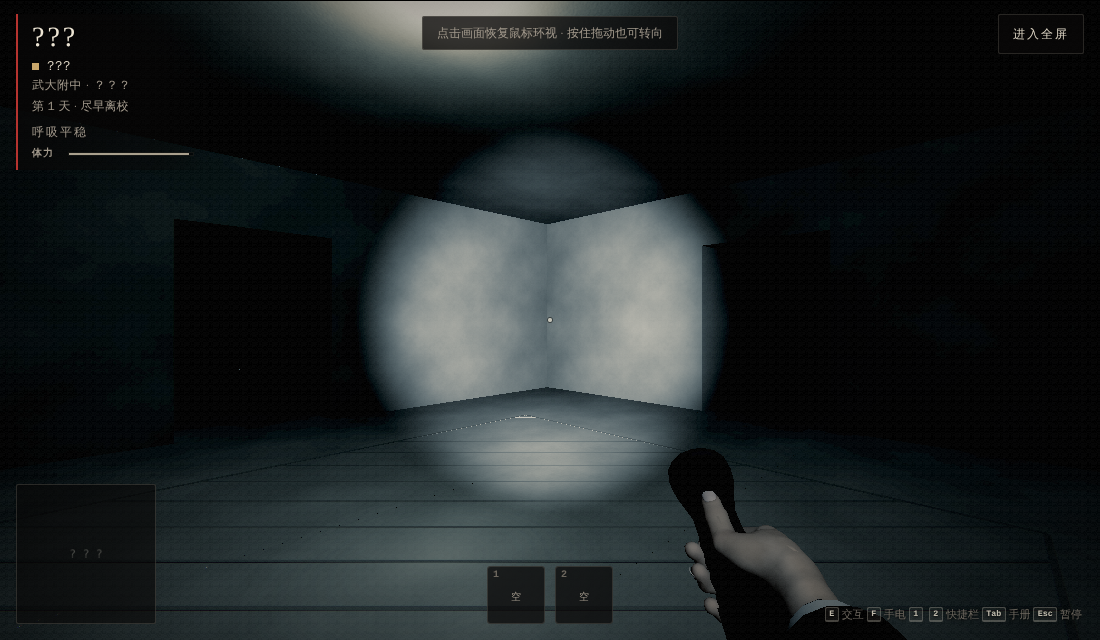
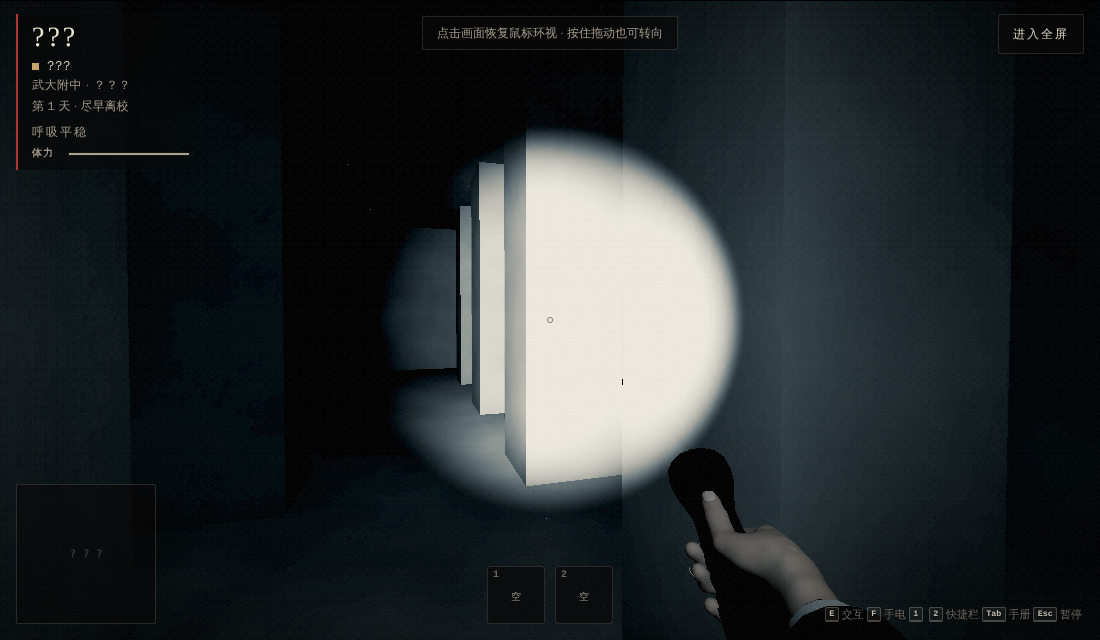
隐藏彩蛋天赋「武大子弟」：开局自带手电筒，和正常天赋叠加；柱林截图重拍
- 新模块 modules/wuda-kid/（内部内容，不进玩家 Wiki，可从清单拿掉）：主菜单连点三下校名切换（本机），
  新开局时静默放一支手电进背包和快捷栏 1；不进 TALENT_DEF / 随机池 / 暂停说明，不占 S.talent；
  读档按存档（d.mods），速通局不给；
- app/session.js 在 Game.start 的 freshState 之后发 newGame 钩子（只在新开局，读档不发）；
- 测试 test_wuda_kid（4 项）；test_wiki_secrets 加保密词；test_modules 拿掉模块的用例加上 wuda-kid；
- 天赋计划第 13 节、模块化与 Mod 规范的钩子表、更新说明与产品对齐同步；
- 柱林入口截图换成沿柱间空当的机位，补一张柱子上前人刻的「正」字；迷宫（含新结构）穿模检查 0 条。

Claude-Session: https://claude.ai/code/session_01MYQzreqxohbYPjiGjbT8Md

diff --git a/game3d/js/modules/wuda-kid/wuda-kid.js b/game3d/js/modules/wuda-kid/wuda-kid.js
@@ -1,0 +1,69 @@
+/* 里世界 3D · 隐藏彩蛋天赋「武大子弟」（模块 wuda-kid）——内部内容，不进玩家 Wiki
+   效果：开局自带一支手电筒（放进背包和快捷栏 1）。
+   隐藏：不在天赋选择、随机池和暂停里的天赋说明中出现；不占 S.talent，和本局抽到 / 选的天赋同时生效（叠加）。
+   开关在这台设备上：主菜单连点三下校名「武汉大学附属中学」打开，再连点三下关上（确定性触发，不随机），
+   记在本机存储 wdfz_wuda。只在新开局时生效（newGame 钩子）：读档按存档里记的，速通局不给（成绩要公平）。
+   本局是否生效随存档保存在 d.mods['wuda-kid']。 */
+'use strict';
+
+var WUDA_KID_CFG={key:'wdfz_wuda', clicks:3, windowMs:1600, item:'torch', tellAfter:6,
+  line:'我：书包侧袋里有一支手电。……小时候在珞珈山上跑，天一黑就得带着它。',
+  onText:'……你想起来了：你家就住在珞珈山下。', offText:'……还是当个普通的转学生吧。'};
+
+var WudaKid=(function(){
+  var C=WUDA_KID_CFG, st={on:false,told:false,t:0}, taps=[];
+  var store=StorageAdapter.create(function(){ return localStorage; });
+  function armed(){ var r=store.read(C.key); return !!(r.ok&&r.value==='1'); }
+  function setArmed(v){ if(v) store.write(C.key,'1'); else store.remove(C.key); }
+  /* 静默放进背包：开场演出里不弹「拿到了」 */
+  function grant(){
+    if(InventoryRules.add(S,C.item,true)!=='added') return false;
+    if(S.hot[0]===null) InventoryRules.setHot(S,0,C.item);
+    try{ bagChanged(); }catch(e){}
+    return true;
+  }
+  function tap(el,now){
+    now=now===undefined?Date.now():now;
+    taps=taps.filter(function(t){ return now-t<C.windowMs; }); taps.push(now);
+    if(taps.length<C.clicks) return null;
+    taps=[];
+    var on=!armed(); setArmed(on);
+    if(el){ el.classList.toggle('wuda-on',on); el.classList.remove('wuda-flash'); void el.offsetWidth; el.classList.add('wuda-flash'); }   /* 闪一下（CSS 动画，不开定时器） */
+    try{ SFX.resume(); SFX.blink(); }catch(e){}
+    try{ toast(on?C.onText:C.offText); }catch(e){}
+    return on;
+  }
+  return {
+    active:function(){ return st.on; }, armed:armed, tap:tap, grant:grant, state:st,
+    newGame:function(o){
+      if(o&&o.mode==='speedrun') return false;
+      if(!armed()) return false;
+      st.on=true; st.told=false; st.t=0; grant(); return true;
+    },
+    tick:function(dt){
+      if(!st.on||st.told||!(dt>0)) return;
+      st.t+=dt; if(st.t<C.tellAfter) return;
+      st.told=true; try{ os(C.line,4.2); }catch(e){}
+    },
+    reset:function(){ st.on=false; st.told=false; st.t=0; },
+    load:function(d){ st.on=!!(d&&d.on); st.told=!!(d&&d.told); st.t=st.told?C.tellAfter:0; }
+  };
+})();
+(function(){
+  var own={owner:'wuda-kid'};
+  GameModules.persistent('wuda-kid',{
+    save:function(){ return WudaKid.state.on?{on:true,told:WudaKid.state.told}:undefined; },
+    load:WudaKid.load, reset:WudaKid.reset});
+  GameModules.on('newGame',WudaKid.newGame,own);
+  GameModules.on('tick',WudaKid.tick,own);
+  GameModules.on('boot',function(){
+    var el=document.querySelector('#menu .mschool'); if(!el) return;
+    var css=document.createElement('style');
+    css.textContent='#menu .mschool{transition:color .5s}#menu .mschool.wuda-on{color:#cdbb86}'+
+      '@keyframes wudaFlash{0%{color:#f1dfa4;text-shadow:0 0 10px rgba(241,223,164,.55)}100%{text-shadow:none}}'+
+      '#menu .mschool.wuda-flash{animation:wudaFlash 1.4s ease-out}';
+    document.head.appendChild(css);
+    el.classList.toggle('wuda-on',WudaKid.armed());
+    el.addEventListener('click',function(){ WudaKid.tap(el); });
+  },own);
+})();

diff --git a/game3d/manifest.js b/game3d/manifest.js
@@ -105,8 +105,10 @@
     files:['game3d/js/modules/mod-manager/mod-manager.js'], exports:['ModManager'], uses:['boot','devTab']},
   {id:'sound-board', name:'声音试听', desc:'调试面板「工具」页的「声音试听」：按类别挑声音库里的音效试听、整类连放，显示响度校准值。',
     files:['game3d/js/modules/sound-board/sound-board.js'], exports:['SoundBoard'], uses:['boot']},
+  {id:'wuda-kid', name:'隐藏天赋「武大子弟」（内部）', desc:'彩蛋天赋：开局自带手电筒，和正常天赋叠加，不在天赋选择和说明里出现；主菜单连点三下校名切换（本机）。不进玩家 Wiki，可从清单拿掉。',
+    files:['game3d/js/modules/wuda-kid/wuda-kid.js'], exports:['WudaKid','WUDA_KID_CFG'], uses:['newGame','tick','boot']},
   {id:'session', name:'会话', desc:'新局、继续、暂停、恢复、回菜单；Lifecycle.boundary 清掉上一局的定时器和回调。freshState 末尾调 GameModules.resetAll（发 reset）。',
-    files:['game3d/js/app/session.js'], exports:['Game','freshState','clearIntroTimers'], emits:['boundary']},
+    files:['game3d/js/app/session.js'], exports:['Game','freshState','clearIntroTimers'], emits:['boundary','newGame']},
   {id:'main', name:'主循环与启动', desc:'主循环、HUD、启动（boot 末尾发 boot 钩子；每个模拟步发 tick）。必须最后加载。',
     files:['game3d/js/main.js'], exports:['boot','update'], emits:['boot','tick','frame','enterRoom','clockText','mapBlocked']}
 ].forEach(function(m){ GameModules.define(m); });

diff --git a/game3d/js/app/session.js b/game3d/js/app/session.js
@@ -68,6 +68,7 @@ var Game={
     if(opt&&opt.mode==='speedrun'){ if(!Speedrun.active()) Speedrun.arm(diff); Dev.clearModifiers(); }   /* 普通局留下的快跑 / 无敌 / 关读条不带进速通 */
     else Speedrun.disarm();                                    /* 普通新局：回到普通存档槽 */
     freshState(diff);
+    GameModules.emit('newGame',{diff:diff,mode:opt&&opt.mode==='speedrun'?'speedrun':'normal'});   /* 模块：只在新开局（不含读档）时做的事 */
     Playtest.event('开始新局',diff);
     var R1=INTERIORS['teach1'];
     /* 淡入要等一会儿：这段时间里人还算站在北门，会被当成"去过北门"。先把人放到座位上。 */

diff --git a/tests/test_wuda_kid.py b/tests/test_wuda_kid.py
@@ -1,0 +1,104 @@
+"""隐藏彩蛋天赋「武大子弟」（内部内容，不进玩家 Wiki）：主菜单连点三下校名切换；新开局自带手电、和正常天赋叠加；
+不出现在天赋选择、随机池和暂停说明里；读档按存档、速通不给；从清单拿掉后游戏照常。"""
+from pathlib import Path
+
+from browser_case import BrowserCase
+
+ROOT = Path(__file__).resolve().parents[1]
+START = """(o)=>{Game.start('hard',o);}"""
+READY = "S.room==='teach1'&&GLR.roomMesh"
+QUIET = "running=false;clearIntroTimers();S.intro=0;AN.active=false;AN.next=1e5;PAT.next=1e5;RT.inspection=null;"
+
+
+class WudaKidTest(BrowserCase):
+    def start(self, page, **opt):
+        page.evaluate(START, opt)
+        page.wait_for_function(READY)
+        page.evaluate(QUIET)
+
+    def test_menu_school_name_toggles_it_with_three_quick_clicks(self):
+        page = self.page()
+        page.evaluate("document.getElementById('menu').style.display='block';S.screen='menu';localStorage.removeItem('wdfz_wuda')")
+        name = page.locator('#menu .mschool')
+        name.click()
+        name.click()
+        self.assertFalse(page.evaluate('WudaKid.armed()'))              # 两下不算
+        name.click()
+        r = page.evaluate("""()=>({armed:WudaKid.armed(),stored:localStorage.getItem('wdfz_wuda'),
+          on:document.querySelector('#menu .mschool').classList.contains('wuda-on'),toast:document.getElementById('toast').textContent})""")
+        self.assertEqual(r['armed'], True)
+        self.assertEqual(r['stored'], '1')
+        self.assertTrue(r['on'])
+        self.assertIn('珞珈山', r['toast'])
+        for _ in range(3):
+            name.click()
+        self.assertFalse(page.evaluate('WudaKid.armed()'))
+        self.assertIsNone(page.evaluate("localStorage.getItem('wdfz_wuda')"))
+        # 慢慢点（超过 1.6 秒）不算
+        r = page.evaluate("""()=>{const el=document.querySelector('#menu .mschool');
+          return [WudaKid.tap(el,1000),WudaKid.tap(el,2000),WudaKid.tap(el,3700),WudaKid.armed()];}""")
+        self.assertEqual(r, [None, None, None, False])
+
+    def test_new_game_brings_a_torch_and_stacks_with_the_chosen_talent(self):
+        page = self.page()
+        page.evaluate("localStorage.setItem('wdfz_wuda','1')")
+        self.start(page, talent='night', origin='selected')
+        r = page.evaluate("""()=>{const pick=(TalentPick.open('hard'),Array.from(document.querySelectorAll('#tpcards .tpcard')).map(b=>b.textContent).join('|'));
+          TalentPick.close();
+          return {talent:S.talent,bag:S.bag.slice(),hot:S.hot.slice(),active:WudaKid.active(),pause:Talent.pauseText(),
+            pick,keys:TAL_KEYS.slice(),def:typeof TALENT_DEF.wuda};}""")
+        self.assertEqual(r['talent'], 'night')                           # 正常天赋照旧
+        self.assertEqual(r['bag'], ['torch'])                            # 叠加：开局自带手电
+        self.assertEqual(r['hot'][0], 'torch')
+        self.assertTrue(r['active'])
+        for text in (r['pause'], r['pick'], ' '.join(r['keys'])):          # 隐藏：选择、随机池、暂停说明里都没有
+            self.assertNotIn('武大', text)
+        self.assertEqual(r['def'], 'undefined')
+        # 走几秒后自言自语一句，只说一次
+        r = page.evaluate("""()=>{const said=[];const o=window.os;window.os=function(t){said.push(t);return o.apply(this,arguments);};
+          for(let i=0;i<60*9;i++)update(1/60);window.os=o;return said.filter(t=>t.indexOf('手电')>=0);}""")
+        self.assertEqual(len(r), 1)
+        self.assertIn('珞珈山', r[0])
+
+    def test_off_by_default_never_in_speedrun_and_saves_follow_the_run(self):
+        page = self.page()
+        page.evaluate("localStorage.removeItem('wdfz_wuda')")
+        self.start(page, talent='watch', origin='selected')
+        self.assertEqual(page.evaluate('[S.bag.slice(),WudaKid.active()]'), [[], False])
+        # 速通局：开着也不给
+        page.evaluate("localStorage.setItem('wdfz_wuda','1')")
+        self.start(page, talent='watch', origin='selected', mode='speedrun')
+        self.assertEqual(page.evaluate('[S.bag.indexOf("torch"),WudaKid.active()]'), [-1, False])
+        page.evaluate("Speedrun.disarm();RUN_MODE='normal'")
+        # 读档按存档：开着开的局存档 → 关掉开关 → 继续上次，仍然生效；手电来自存档
+        self.start(page, talent='watch', origin='selected')
+        r = page.evaluate("""()=>{saveGame();const d=loadGame();localStorage.removeItem('wdfz_wuda');
+          Game.continue_();return {saved:d.mods['wuda-kid'],active:WudaKid.active(),torch:S.bag.filter(i=>i==='torch').length};}""")
+        self.assertEqual(r['saved']['on'], True)
+        self.assertEqual((r['active'], r['torch']), (True, 1))
+        # 没开时开的局：之后再打开开关、读档，也不会凭空多一支手电
+        self.start(page, talent='watch', origin='selected')
+        r = page.evaluate("""()=>{saveGame();localStorage.setItem('wdfz_wuda','1');Game.continue_();
+          return {active:WudaKid.active(),bag:S.bag.slice(),saved:(loadGame().mods||{})['wuda-kid']};}""")
+        self.assertEqual(r, {'active': False, 'bag': [], 'saved': None})
+
+    def test_module_can_be_removed_and_wiki_keeps_the_secret(self):
+        context = self.browser.new_context(viewport={'width': 1000, 'height': 700})
+        self.contexts.append(context)
+        context.add_init_script("localStorage.setItem('wdfz_pro','1');localStorage.setItem('zw3d_set',JSON.stringify({q:0,amb:0,vol:0}));localStorage.setItem('wdfz_wuda','1');")
+        src = (ROOT / 'game3d/manifest.js').read_text(encoding='utf-8')
+        src = src.replace("].forEach(function(m){ GameModules.define(m); });",
+                          "].filter(function(m){ return m.id!=='wuda-kid'; }).forEach(function(m){ GameModules.define(m); });")
+        context.route('**/game3d/manifest.js', lambda route: route.fulfill(status=200, content_type='text/javascript', body=src))
+        page = context.new_page()
+        page.on('pageerror', lambda e: self.errors.append(str(e)))
+        page.goto(self.url, wait_until='load')
+        page.evaluate("PHOTO_TRIED=true;running=false;CUT.enabled=false;Game.start('hard',{talent:'night',origin:'selected'})")
+        page.wait_for_function("S.room==='teach1'")
+        r = page.evaluate("({kid:typeof WudaKid,bag:S.bag.slice(),errors:GameModules.errors().length})")
+        self.assertEqual(r, {'kid': 'undefined', 'bag': [], 'errors': 0})
+        for path in (ROOT / 'wiki').rglob('*'):
+            if path.is_file() and path.suffix in ('.html', '.css', '.js', '.json', '.md', '.txt'):
+                text = path.read_text(encoding='utf-8')
+                for word in ('武大子弟', '珞珈', 'wuda', 'wdfz_wuda'):
+                    self.assertNotIn(word, text, path.name)

diff --git a/tests/test_modules.py b/tests/test_modules.py
@@ -163,13 +163,13 @@ class ModuleBrowserTest(BrowserCase):
         self.assertTrue(result['chalk'])
 
     def test_feature_modules_can_be_removed_from_the_manifest(self):
-        """从清单里拿掉虚空迷宫（连同它的彩蛋）、粉笔记号、Mod 管理四个功能模块，游戏照常启动；电梯退回原来的白色空间。"""
+        """从清单里拿掉虚空迷宫（连同它的彩蛋）、粉笔记号、Mod 管理、隐藏天赋五个功能模块，游戏照常启动；电梯退回原来的白色空间。"""
         context = self.browser.new_context(viewport={'width': 1000, 'height': 700})
         self.contexts.append(context)
         context.add_init_script("localStorage.setItem('wdfz_pro','1');localStorage.setItem('zw3d_set',JSON.stringify({q:0,amb:0,vol:0}));")
         src = (ROOT / 'game3d/manifest.js').read_text(encoding='utf-8')
         src = src.replace("].forEach(function(m){ GameModules.define(m); });",
-                          "].filter(function(m){ return ['void-maze','void-maze-eggs','chalk-marks','mod-manager'].indexOf(m.id)<0; }).forEach(function(m){ GameModules.define(m); });")
+                          "].filter(function(m){ return ['void-maze','void-maze-eggs','chalk-marks','mod-manager','wuda-kid'].indexOf(m.id)<0; }).forEach(function(m){ GameModules.define(m); });")
         context.route('**/game3d/manifest.js', lambda route: route.fulfill(status=200, content_type='text/javascript', body=src))
         page = context.new_page()
         page.on('pageerror', lambda e: self.errors.append(str(e)))
@@ -184,7 +184,7 @@ class ModuleBrowserTest(BrowserCase):
           S.bag.push('chalk');useItem('chalk');
           return {n,bad,maze:typeof VoidMaze,chalk:typeof ChalkMarks,inside,old,back:S.room,panel:!!document.getElementById('modTools'),
             sub:document.getElementById('sub').innerText}}""")
-        self.assertEqual(result['n'], len(manifest()) - 4)          # 清单里的模块数减去拿掉的四个
+        self.assertEqual(result['n'], len(manifest()) - 5)          # 清单里的模块数减去拿掉的五个
         self.assertEqual(result['bad'], 0)
         self.assertEqual((result['maze'], result['chalk']), ('undefined', 'undefined'))
         self.assertEqual(result['inside'], 'lift_dream')

diff --git a/tests/test_wiki_secrets.py b/tests/test_wiki_secrets.py
@@ -8,7 +8,8 @@ import unittest
 WIKI = Path(__file__).resolve().parents[1] / 'wiki'
 # 隐藏路线的名字、内部 ID、时刻和专属线索
 HIDDEN = ['先辈', 'beast', '旧校服', '第三个隔间', '秒针', '慢速窗口',
-          '可乐', 'cola', '易拉罐']   # 清华水杯之后的夜间连锁异象：按内部潜在彩蛋处理
+          '可乐', 'cola', '易拉罐',   # 清华水杯之后的夜间连锁异象：按内部潜在彩蛋处理
+          '武大子弟', '珞珈', 'wuda']   # 隐藏彩蛋天赋（PR #27）
 TIME = re.compile(r'11\s*[:：点]\s*45')
 
 

diff --git a/docs/plan/README.md b/docs/plan/README.md
@@ -6,7 +6,7 @@
 | --- | --- | --- |
 | [项目解耦与模块化](项目解耦与模块化.md) | 代码已实施，待真人／真机验收 | 按最新指示直接在 main 实施，代码 `37658d8`：统一输入／会话生命周期，抽出数值、时间、背包和存档规则，隔离镜头与结局舞台，加入模块边界检查。当前 397 项按完整回归及专项复测去重核对：396 通过、1 环境跳过；汽车路线实际操作通关。普通脚本、旧接口、原随机源和同学场景查询作为兼容边界保留；真人／真机与真实 GPU 对照未验收，记录见正文第 10 节及测试说明。PR #25 合入本次模块化时，天赋规则 2、开场 CG、速通、死亡档案与特殊日按同一接口接入（见[模块边界与迁移](../模块边界与迁移.md)第 7 节），A-01 开场空格跳过随新输入策略修复。 |
 | [传送门建模、死亡CG档案室与速通模式](传送门建模、死亡CG档案室与速通模式.md) | 部分完成 | 第 6.7 节 20 分钟自然日此前已部署。2026-11-01 实现 P0 传送门实体模型（实验室常驻装置与结局演出共用）、P1 死亡档案室（18 种死因、可信解锁、隔离回放）、P2 速通模式（RTA、独立存档槽、个人最佳）、P3 新局 3D 开场 CG、P4 水杯前摇缩短 / 夜间连锁异象 / 校庆与占课，均有自动化与截图（第 9 节）；电梯异常维度的「异色空间」重绘及人影已按要求从 PR #25 撤回；2026-11-02 按用户手稿重新设计为虚空迷宫（6.4 节，另立计划「虚空迷宫、粉笔记号与模块化」，PR #26）；2026-11-02 已合入 main 的模块化重构，按新接口接入，开场 CG 键盘空格跳过的输入分流问题随之修复；真人试玩、安卓真机、听感与真实 GPU 性能验收未做。 |
-| [天赋系统重构](天赋系统重构.md) | 部分完成 | 2026-11-01 完成 M0–M3：`talents.js` 统一定义与能力接口、新局选择 / 随机 / 返回、免疫立即落盘、未知 ID 校验、手册与暂停反馈、规则 2 试验效果（旧存档保持规则 1），`tests/test_talents.py` 9 项；M4 路线自然通关与 M5 真人 / 真机验收未做（第 12 节）。 |
+| [天赋系统重构](天赋系统重构.md) | 部分完成 | 2026-11-01 完成 M0–M3：`talents.js` 统一定义与能力接口、新局选择 / 随机 / 返回、免疫立即落盘、未知 ID 校验、手册与暂停反馈、规则 2 试验效果（旧存档保持规则 1），`tests/test_talents.py` 9 项；M4 路线自然通关与 M5 真人 / 真机验收未做（第 12 节）。；2026-11-02 PR #27 加一项隐藏彩蛋天赋（内部，见第 13 节，不进 Wiki）。 |
 | [可玩性与整体体验提升](可玩性与整体体验提升.md) | 代码已实现，待真人／真机验收 | [PR #20](https://github.com/chorusfruit-233/wdfz/pull/20) 集中交付 G1–G9 的实现、回归与记录工具：首局调查、具体笔记与路线选择、图纸挑战、补给取舍、失败归因、楼层草图、操作设置及叙事回应。第二轮（17.6 节）做了审查修复、全部新界面与场景文字牌按游戏界面风格重做、Alt 放出鼠标。真人盲玩、正常收集通关、自然跨日、实体设备、听感和重玩价值保持待验收，证据见正文第 17 节。 |
 | [恐怖体验深化与验证](恐怖体验深化与验证.md) | 部分完成 | P0–P2 与第 6 节自动化已完成：威胁矩阵与事件优先级表、巡察者卡住放弃 / 跟丢回头找 / 记得躲过的柜子、声音先行与有方位的假威胁、惊吓预算、骤静与前兆、回访变化、五分钟切片，导演系统评估后暂不做；安卓真机与真人试玩记录未做。2026-11-02 异色空间人影改动已从 PR #25 撤回，随异常维度一起重新设计。 |
 | [校园事件、电梯与逃脱流程重做](校园事件、电梯与逃脱流程重做.md) | 部分完成 | M0–M6 完成：第 15 节列出「待设计」参数的实施取值（未经用户逐项确认，集中在配置里可调）和对应测试；M7 的真实设备与真人试玩（数值平衡、驾驶手感、白色空间可玩性）未做。 |

diff --git a/docs/模块化与Mod规范.md b/docs/模块化与Mod规范.md
@@ -31,7 +31,7 @@ game3d/mods/                    随游戏发布、默认关闭的 Mod；index.js
 | `emits` | 这个模块在代码里发出的钩子（`GameModules.emit/first`） |
 | `uses` | 这个模块监听的钩子 |
 
-当前 42 个模块：原有代码分成的模块，main 模块化新增的「生命周期与输入策略」「纯规则」「会话」，功能模块「粉笔记号」「虚空迷宫」「虚空迷宫彩蛋（内部）」「Mod 管理」，以及最后加载的主循环。具体职责以清单为准。`tools/check_modules.py` 从清单展开实际加载顺序，检查每个脚本都被加载、启动依赖的先后、纯规则模块不碰浏览器和全局状态、四项核心数值只经 `PlayerStats` 写。
+当前 44 个模块：原有代码分成的模块，main 模块化新增的「生命周期与输入策略」「纯规则」「会话」，功能模块「粉笔记号」「虚空迷宫」「虚空迷宫彩蛋（内部）」「Mod 管理」「声音试听」「隐藏天赋（内部）」，以及最后加载的主循环。具体职责以清单为准。`tools/check_modules.py` 从清单展开实际加载顺序，检查每个脚本都被加载、启动依赖的先后、纯规则模块不碰浏览器和全局状态、四项核心数值只经 `PlayerStats` 写。
 
 **改功能的做法**：先在清单里找到模块 → 只读它登记的文件和它 `uses` / `emits` 的钩子 → 改完跑这个模块对应的测试（见第 6 节）。跨模块改动先看对方的 `exports` 是否需要变；导出名字改了，同时改清单。
 
@@ -67,6 +67,7 @@ game3d/mods/                    随游戏发布、默认关闭的 Mod；index.js
 | `sceneBuilt` | `engine/scene.js` 房间 / 室外场景建好后 | emit | `roomId`（室外为 `null`） |
 | `devTab` | `dev.js` 切换调试面板页签 | emit | `id`；模块加的页签（`DEV_TABS.push`）在这里画内容 |
 | `boundary` | `app/session.js`：`Lifecycle.boundary` 时（新局 `new-session`、回菜单 `menu`） | emit | `reason`；收掉上一局的画面效果、计时 |
+| `newGame` | `app/session.js` `Game.start`，`freshState` 之后（只在新开局，读档不发） | emit | `{diff, mode}`（`mode` 为 `normal` / `speedrun`）；开局才给的东西（例如内部彩蛋天赋的手电） |
 | `frame` | `main.js` `render()`，每个画面帧 | emit | `dt`；表现层自己的动画（彩蛋的反色、黑影淡入淡出） |
 | `soundscape` | `audio.js` 每帧 | first | 返回要用的整片环境声 ID（见第 4.1 节） |
 | `stepSurface` | `audio.js` 每次脚步（自己、巡察者） | first | 返回脚下材质名，声音库里要有 `step.<名>`（例如异空间的 `void`）；没有就按原来的规则判断 |

diff --git a/docs/plan/天赋系统重构.md b/docs/plan/天赋系统重构.md
@@ -328,3 +328,19 @@ M0–M3 已实现并有自动化证据；**M4 路线验收与 M5 真人 / 真机
 
 2026-11-02：本分支合入 `main` 的模块化后，天赋相关的 SAN 结算改经 `PlayerStats`（铁胃吃饭基数先交给校园压力结算、暗处适应乘在危险区消耗上、编程社第一次答错不扣），新局的 `Talent.begin` 与暂停页说明移入 `app/session.js`；`Talent` 只返回能力和修正值，不直接写数值。行为不变，合并后 `test_talents` 9 项通过（见[测试说明](../测试说明.md)「PR #25 合入主分支模块化验证」）。M4、M5 仍未做。
 
+## 13. 隐藏彩蛋天赋「武大子弟」（2026-11-02，PR #27；内部内容，不进玩家 Wiki）
+
+用户要求：「可以添加彩蛋天赋 武大子弟 开局自带手电筒」「这个天赋是隐藏的，可以叠加其他天赋」。
+
+| 项 | 实现 |
+| --- | --- |
+| 效果 | 新开局时一支手电筒静默放进背包和快捷栏 1（不弹「拿到了」）；开局几秒后自言自语一句「书包侧袋里有一支手电……小时候在珞珈山上跑，天一黑就得带着它」 |
+| 隐藏 | 不进 `TALENT_DEF`、`TAL_KEYS`：天赋选择卡片、随机池、暂停里的天赋说明都看不到；不占 `S.talent` |
+| 叠加 | 与本局选的 / 随机抽到的天赋同时生效（各自的能力接口照常） |
+| 触发 | 主菜单连点三下校名「武汉大学附属中学」（1.6 秒内）打开，再连点三下关上；打开时校名轻轻闪一下并变成淡金色，提示「……你想起来了：你家就住在珞珈山下」。开关记在本机存储 `wdfz_wuda`，属于这台设备。确定性触发，不随机 |
+| 生效范围 | 只在新开局（`newGame` 钩子，`Game.start` 里 `freshState` 之后）；读档按存档里记的（`d.mods['wuda-kid']`），开关后来怎么改都不影响已有的存档；速通局不给，成绩保持公平 |
+| 代码 | `game3d/js/modules/wuda-kid/wuda-kid.js`（模块 `wuda-kid`，可从清单整块拿掉） |
+| 验证 | `tests/test_wuda_kid.py`（4 项：菜单三下切换与慢点不算、开局带手电并与「暗处适应」叠加且三处都看不到、默认关 / 速通不给 / 读档按存档、拿掉模块照常与 Wiki 不出现）；`tests/test_wiki_secrets.py` 加了「武大子弟」「珞珈」「wuda」 |
+
+触发方式是本轮按「隐藏、确定性、能被玩家偶然发现」自定的，用户若想换成别的条件（例如特定日期、某个地点的互动）只需改模块里的 `tap` 一处。
+

diff --git a/pictures/README.md b/pictures/README.md
@@ -67,4 +67,4 @@
 - [PR25合入模块化](PR25合入模块化/)：PR #25 合入 main 的项目解耦与模块化后的流程核对（桌面 1280×720、精细档）——主菜单的速通 / 死亡档案室入口、天赋选择（选中守时）、第一次完整版开场 CG 中途、按空格跳过后在座位上交接（开局字幕）、暂停里的天赋说明、速通短版开场跳过后起表计时。
 - [虚空迷宫与粉笔记号](虚空迷宫与粉笔记号/)：错误的电梯通往的虚空迷宫——出生区域开 / 不开手电（01、02）、北桥厅的主桥与头顶的上层桥（03）、低头看桥边和虚空（04）、东阶梯塔绕内壁的悬空楼梯与走到一半往上看（05、06）、出口 2 走廊尽头门缝漏光（07）、上层平台往西看断口（10）、塔顶死路墙上前人的 X（11）、桥面上自己画的箭头（12）、坠落中往上看（13）；粉笔记号：教学楼走廊墙上的 X 和地上的 ↑、O（08）、选图案的选项（09）；暂停菜单「Mod 与模块」（14）与调试面板「Mod」页签（15）。1100×640，精细档，无头 Chromium 软件 WebGL。虚空迷宫按此前白色空间的惯例不进玩家 Wiki。
 - [虚空迷宫彩蛋与分层重构](虚空迷宫彩蛋与分层重构/)：异空间的内部彩蛋——凝视虚空时的反色（白下来的虚空里站着一个黑影，01）、北桥厅断桥对面的黑影（02）、东阶梯塔顶回头时楼梯下面的黑影（03）、出口 1 门缝蓝光前的黑影（04）。彩蛋属内部内容，不进 Wiki。1100×640，精细档，无头 Chromium 软件 WebGL。
-- [异空间新结构与音效重做](异空间新结构与音效重做/)：虚空迷宫的三种新结构——柱林入口往里看、走到深处回头（01、02），窄梁一米宽没有栏杆、对面平台是死路（03、04），回环走廊的岔口与西北角（05、06）；调试面板「工具」页的声音试听（07）。
+- [异空间新结构与音效重做](异空间新结构与音效重做/)：虚空迷宫的三种新结构——柱林入口往里看、走到深处回头（01、02），窄梁一米宽没有栏杆、对面平台是死路（03、04），回环走廊的岔口与西北角（05、06）；调试面板「工具」页的声音试听（07）；柱林入口一侧柱子上前人刻的「正」字（08）。

diff --git a/docs/产品对齐文档.md b/docs/产品对齐文档.md
@@ -1067,7 +1067,7 @@ flowchart TD
 | 2026-11-02 | 按用户要求撤回 PR #25 的「异色空间」重绘及人影，恢复 main 原有白色空间；相关测试和截图一并撤出，计划标记为重新设计中。 | 普通电梯建模与 PR 其余功能保留；本轮验证见测试说明。 |
 | 2026-11-02 | PR #25 合入 main 的项目解耦与模块化：18.2 节「主要事实来源」改为新局 / 继续 / 暂停在 `app/session.js`、输入策略在 `app/input-context.js`、数值 / 时间 / 背包 / 存档规则在 `domain/`；天赋、特殊日、速通、死亡档案与开场 CG 按模块接口接入。 | 玩法规则、数值和存档格式不变；验证见测试说明。 |
 | 2026-11-02 | 按用户手稿把电梯特殊空间重做为虚空迷宫（桥厅、阶梯塔、坠落复活、越久越快的 SAN 流失、地图与时间失效）；粉笔可画记号并存档；项目按模块清单加载，加入钩子、房间接口和 Mod 入口（自带 / 网址 / 上传，`?nomod` 安全模式）。 | 代码与自动化完成；出口 2 去向等参数未经逐项确认；真人试玩与真机待验收。 |
-| 2026-11-02 | PR #27：全部一次性音效重做为配方 + 播放器 + 按类别校准的响度（11.3 节）；上课铃与下课铃分开；虚空迷宫加柱林、窄梁、回环三种结构（内部空间，不进 Wiki）。 |
+| 2026-11-02 | PR #27：全部一次性音效重做为配方 + 播放器 + 按类别校准的响度（11.3 节）；上课铃与下课铃分开；虚空迷宫加柱林、窄梁、回环三种结构（内部空间，不进 Wiki）；隐藏彩蛋天赋「武大子弟」（开局自带手电、与正常天赋叠加，内部，见天赋计划第 13 节）。 |
 
 ## 可玩性扩展的资源和验证边界
 
